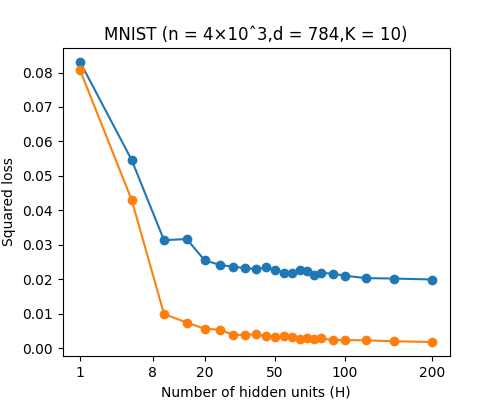
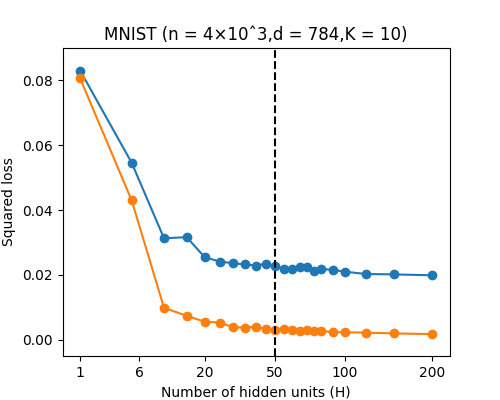
Experiments for label noise 0% and 20% at 1000 epochs

diff --git a/cifar_dd_exp.py b/cifar_dd_exp.py
@@ -2,31 +2,26 @@ import torchvision.datasets as datasets
 import torch
 import torch.nn as nn
 import torchvision.transforms as transforms
-import matplotlib.pyplot as plt
-import os
 import numpy as np
+import os
 
-#------------------------------------------------------------------------------------------
+from torch.utils.data import DataLoader
+from prefetch_generator import BackgroundGenerator
+
+# ------------------------------------------------------------------------------------------
 
 
 # Training Settings
-weight_reuse = False
-lr_decay = False
-#hidden_units = [1, 50, 100]
+lr_decay = True
 CNN_widths = [1, 4, 8, 12, 16, 20, 24, 28, 32, 36, 40, 44, 48, 52, 56, 60, 64]
 classes = ('plane', 'car', 'bird', 'cat', 'deer', 'dog', 'frog', 'horse', 'ship', 'truck')
 n_epochs = 1000
-momentum = 0.95
 learning_rate = 0.01
-lr_decay_rate = 0.9
-sample_size = 4000
+label_noise_ratio = 0.2
 
-if weight_reuse:
-    directory = "assets/cifar/weight-reuse-case/epoch=%d" % n_epochs
-else:
-    directory = "assets/cifar/standard-case/epoch=%d" % n_epochs
+directory = "assets/cifar-10/standard-case/epoch=%d-noise=%d" % (n_epochs, label_noise_ratio)
 
-output_file = os.path.join(directory, "epoch=%d.txt" % n_epochs)
+output_file = os.path.join(directory, "epoch=%d.txt-noise=%d" % (n_epochs, label_noise_ratio))
 checkpoint_path = os.path.join(directory, "ckpt")
 
 if not os.path.isdir(directory):
@@ -35,36 +30,44 @@ if not os.path.isdir(checkpoint_path):
     os.mkdir(checkpoint_path)
 
 
-#------------------------------------------------------------------------------------------
+# ------------------------------------------------------------------------------------------
 
-
-from torch.utils.data import DataLoader
-from prefetch_generator import BackgroundGenerator
 
 class DataLoaderX(DataLoader):
     def __iter__(self):
         return BackgroundGenerator(super().__iter__())
 
+
 # Return the trainloader and testloader of MINST
 def get_train_and_test_dataloader():
     transform = transforms.Compose(
         [transforms.ToTensor(),
-         transforms.Normalize((0.5, 0.5, 0.5), (0.5, 0.5, 0.5))])
+         transforms.Normalize((0.5, 0.5, 0.5), (0.5, 0.5, 0.5))]
+    )
 
     trainset = datasets.CIFAR10(root='./data', train=True, download=False, transform=transform)
 
-    trainloader = DataLoaderX(trainset, batch_size=64, shuffle=True, num_workers=8, pin_memory=False)
+    if label_noise_ratio > 0:
+        label_noise_transform = transforms.Lambda(lambda y: torch.tensor(np.random.randint(0, 10)))
+        num_samples = len(trainset)
+        num_noisy_samples = int(label_noise_ratio * num_samples)
+
+        noisy_indices = np.random.choice(num_samples, num_noisy_samples, replace=False)
+        for idx in noisy_indices:
+            trainset.targets[idx] = label_noise_transform(trainset.targets[idx])
+
+    trainloader = DataLoaderX(trainset, batch_size=64, shuffle=True, num_workers=0, pin_memory=False)
 
     testset = datasets.CIFAR10(root='./data', train=False, download=False, transform=transform)
 
-    testloader = DataLoaderX(testset, batch_size=64, shuffle=False, num_workers=8, pin_memory=False)
+    testloader = DataLoaderX(testset, batch_size=64, shuffle=False, num_workers=0, pin_memory=False)
 
     print('Load CIFAR-10 dataset success;')
 
     return trainloader, testloader
 
 
-#------------------------------------------------------------------------------------------\
+# ------------------------------------------------------------------------------------------\
 
 
 class FiveLayerCNN(nn.Module):
@@ -101,23 +104,65 @@ class FiveLayerCNN(nn.Module):
         x = self.fc(x)
         return x
 
-def get_model(hidden_unit):
-    model = FiveLayerCNN(hidden_unit)
-    model = model.to(device)
 
-    print("Model with %d hidden neurons successfully generated;" % hidden_unit)
-
-    return model
+# ------------------------------------------------------------------------------------------
 
 
-#------------------------------------------------------------------------------------------
+def train_and_evaluate_model(trainloader, testloader, model, optimizer, criterion):
+    total_train_step = 0
 
+    for i in range(n_epochs):
+        model.train()
+        cumulative_loss, correct, total = 0.0, 0, 0
 
-def train_and_evaluate_model(trainloader, testloader, model, optimizer, criterion, CNN_width):
+        for data in trainloader:
+            imgs, targets = data
+            imgs = imgs.to(device)
+            targets = targets.to(device)
+
+            outputs = model(imgs)
+            loss = criterion(outputs, targets)
+            optimizer.zero_grad()
+            loss.backward()
+            optimizer.step()
+
+            cumulative_loss += loss.item()
+            _, predicted = outputs.max(1)
+            total += targets.size(0)
+            correct += predicted.eq(targets.argmax(1)).sum().item()
+
+            total_train_step = total_train_step + 1
+            if total_train_step > 0 and total_train_step % 512 == 0:
+                optimizer.param_groups[0]['lr'] = optimizer.param_groups[0]['lr'] / \
+                                                  pow(1 + total_train_step // 512, 0.5)
+                print("Learning Rate Decay: %.f", optimizer.param_groups[0]['lr'])
+
+        print("Epoch : %d ; Train Loss : %f ; Train Acc : %.3f" % (i, train_loss, train_acc))
+
+    model.eval()
+    cumulative_loss, correct, total = 0.0, 0, 0
+
+    with torch.no_grad():
+        for data in testloader:
+            imgs, targets = data
+            imgs = imgs.to(device)
+            targets = targets.to(device)
+
+            outputs = model(imgs)
+            loss = criterion(outputs, targets)
+
+            cumulative_loss += loss.item()
+            _, predicted = outputs.max(1)
+            total += targets.size(0)
+            correct += predicted.eq(targets.argmax(1)).sum().item()
+
+    test_loss = cumulative_loss / len(testloader)
+    test_acc = correct / total
+
     return train_loss, train_acc, test_loss, test_acc
 
 
-#------------------------------------------------------------------------------------------
+# ------------------------------------------------------------------------------------------
 
 
 if __name__ == '__main__':
@@ -134,17 +179,21 @@ if __name__ == '__main__':
     # Main Training Unit
     for CNN_width in CNN_widths:
         # Generate the model with specific number of hidden_unit
-        model = get_model(CNN_width)
+        model = FiveLayerCNN(CNN_width)
+        model = model.to(device)
+        print("Model with %d hidden neurons successfully generated;" % CNN_width)
+
         parameters = sum(p.numel() for p in model.parameters())
         print('Number of parameters: %d' % sum(p.numel() for p in model.parameters()))
 
         # Set the optimizer and criterion
-        optimizer = torch.optim.SGD(model.parameters(), momentum=momentum, lr=learning_rate)
+        optimizer = torch.optim.SGD(model.parameters(), momentum=0, lr=learning_rate)
         criterion = torch.nn.CrossEntropyLoss()
+        criterion = criterion.to(device)
 
         # Train and evalute the model
-        train_loss, train_acc, test_loss, test_acc = train_and_evaluate_model(trainloader, testloader, \
-                                    model, optimizer, criterion, CNN_width)
+        train_loss, train_acc, test_loss, test_acc = train_and_evaluate_model(trainloader, testloader,
+                                                                              model, optimizer, criterion)
 
         # Print training and evaluation outcome
         print("\nCNN_width : %d ; Parameters : %d ; Train Loss : %f ; Train Acc : %.3f ; Test Loss : %f ; "

diff --git a/mnist_dd_exp.py b/mnist_dd_exp.py
@@ -11,19 +11,19 @@ import numpy as np
 
 # Training Settings
 weight_reuse = False
-lr_decay = False
-hidden_units = [20, 1, 5, 10, 15, 25, 30, 35, 40, 45, 50, 55, 60, 65, 70, 75, 80, 90, 100, 120, 150, 200]
+lr_decay = True
+hidden_units = [1, 5, 10, 15, 20, 25, 30, 35, 40, 45, 50, 55, 60, 65, 70, 75, 80, 90, 100, 120, 150, 200]
 n_epochs = 1000
 momentum = 0.95
 learning_rate = 0.01
 lr_decay_rate = 0.9
 sample_size = 4000
-label_noise_ratio = 0.2
+label_noise_ratio = 0.0
 
 if weight_reuse:
     directory = "assets/mnist/weight-reuse-case/epoch=%d" % n_epochs
 else:
-    directory = "assets/mnist/standard-case/epoch=%d-noise" % n_epochs
+    directory = "assets/mnist/standard-case/epoch=%d-noise-0-lr-decay" % n_epochs
 
 output_file = os.path.join(directory, "epoch=%d.txt" % n_epochs)
 checkpoint_path = os.path.join(directory, "ckpt")
@@ -68,6 +68,7 @@ def get_train_and_test_dataloader():
     trainset = torch.utils.data.Subset(trainset, indices=np.arange(sample_size))
     trainloader = DataLoaderX(trainset, batch_size=64, shuffle=True, num_workers=0, pin_memory=False)
 
+    '''
     for images, targets in trainloader:
         for i in range(18):
             plt.subplot(3, 6, i + 1)
@@ -77,6 +78,7 @@ def get_train_and_test_dataloader():
         print(targets[6:12])
         print(targets[12:18])
         break
+    '''
 
     testset = datasets.MNIST(root='./data', train=False, download=True, transform=transform_test)
 
@@ -97,7 +99,7 @@ class simple_FC(nn.Module):
             nn.Linear(784, n_hidden),
             nn.ReLU()
         )
-        self.dropout = nn.Dropout(0.6)
+        #self.dropout = nn.Dropout(0.6)
         self.classifier = nn.Linear(n_hidden, 10)
 
     def forward(self, x):
@@ -156,9 +158,8 @@ def train(trainloader, model, optimizer, criterion):
         loss = criterion(outputs, labels)
         loss.backward()
         optimizer.step()
-        # Calculate the Testing Loss
+
         cumulative_loss += loss.item()
-        # Calculate the Training Accuracy
         _, predicted = outputs.max(1)
         total += labels.size(0)
         correct += predicted.eq(labels.argmax(1)).sum().item()
@@ -182,9 +183,8 @@ def test(testloader, model):
             labels = labels.to(device)
             outputs = model(inputs)
             loss = criterion(outputs, labels)
-            # Calculate the Testing Loss
+
             cumulative_loss += loss.item()
-            # Calculate the Testing Accuracy
             _, predicted = outputs.max(1)
             total += labels.size(0)
             correct += predicted.eq(labels.argmax(1)).sum().item()
@@ -200,16 +200,14 @@ def train_and_evaluate_model(trainloader, testloader, model, optimizer, criterio
     train_loss, train_acc, epoch = 0.0, 0.0, 0
 
     # Stops the training within the pre-set epoch size or when the model fits the training set (99%)
-    while epoch < n_epochs:
+    for epoch in range(n_epochs):
         # Perform weight decay before the interpolation threshold
         # LR decay by lr_decay_rate percent after every `500` epochs
-        if lr_decay and epoch > 1 and epoch % 250 == 1:
+        if lr_decay and epoch > 1 and epoch % 200 == 1:
             optimizer.param_groups[0]['lr'] = optimizer.param_groups[0]['lr'] * lr_decay_rate
 
         # Train the model
         model, train_loss, train_acc = train(trainloader, model, optimizer, criterion)
-
-        epoch += 1
 
         # Print the status of current training and testing outcome
         print("Epoch : %d ; Train Loss : %f ; Train Acc : %.3f" % (epoch, train_loss, train_acc))
@@ -248,7 +246,9 @@ if __name__ == '__main__':
 
         # Set the optimizer and criterion 
         optimizer = torch.optim.SGD(model.parameters(), momentum=momentum, lr=learning_rate)
+        #optimizer = optimizer.to(device)
         criterion = torch.nn.MSELoss()
+        #criterion = criterion.to(device)
 
         # Train and evalute the model
         train_loss, train_acc, test_loss, test_acc = train_and_evaluate_model(trainloader, testloader, \

diff --git a/mnist_dd_plot.py b/mnist_dd_plot.py
@@ -3,18 +3,14 @@ import os
 import re
 import math
 
-epochs = 1000
-weight_reuse = False
+epochs = 4000
 
-if weight_reuse:
-    directory = 'assets/mnist/weight-reuse-case/epoch=%d-3/plots' % epochs
-    input_file = 'assets/mnist/weight-reuse-case/epoch=%d-3/epoch=%d.txt' % (epochs, epochs)
-else:
-    directory = 'assets/mnist/standard-case/epoch=%d-dropout/plots' % epochs
-    input_file = 'assets/mnist/standard-case/epoch=%d-dropout/epoch=%d.txt' % (epochs, epochs)
+directory = 'assets/mnist/standard-case/epoch=%d' % epochs
+plots_directory = os.path.join(directory, 'plots')
+input_file = os.path.join(directory, 'epoch=%d.txt' % epochs)
 
-if not os.path.isdir(directory):
-    os.mkdir(directory)
+if not os.path.isdir(plots_directory):
+    os.mkdir(plots_directory)
 
 if __name__ == '__main__':
     array = []
@@ -39,7 +35,6 @@ if __name__ == '__main__':
     #    parameters.append(int( (785 * n + (n + 1) * 10) / 1000) )
 
 
-
     scale_function = (lambda x: x**(1/3), lambda x: x**3)
 
     plt.figure(figsize=(5, 4))
@@ -47,26 +42,28 @@ if __name__ == '__main__':
     ax.set_xscale('function', functions=scale_function)
     plt.plot(hidden_units, test_losses, marker='o', label='test')
     plt.plot(hidden_units, train_losses, marker='o', label='train')
-    plt.xticks([1, 8, 20, 50, 100, 200])
+    plt.xticks([1, 6, 20, 50, 100, 200])
+    ax.vlines([50], -0.005, 0.9, linestyles='dashed', color='black')
+    plt.ylim((-0.005, 0.09))
     plt.xlabel('Number of hidden units (H)')
     plt.ylabel('Squared loss')
     plt.title('MNIST (n = 4×10ˆ3,d = 784,K = 10)')
-    plt.savefig(os.path.join(directory, 'MSE-Neurons.png'))
+    plt.savefig(os.path.join(plots_directory, 'MSE-Neurons.png'))
 
     plt.figure(figsize=(6, 4.5))
     ax = plt.axes()
     #ax.set_xscale('function', functions=scale_function)
-    ax.vlines([40], -0.003, 0.155, linestyles='dashed', color='black')
     plt.plot(parameters, test_losses, marker='o', label='test')
     plt.plot(parameters, train_losses, marker='o', label='train')
     #plt.xticks([5, 10, 40, 100])
     plt.yticks([0.00, 0.02, 0.04, 0.06, 0.08, 0.10, 0.12, 0.14])
     #plt.xlim((10, 300))
-    plt.ylim((-0.003, 0.155))
+    ax.vlines([40], -0.003, 0.09, linestyles='dashed', color='black')
+    plt.ylim((-0.003, 0.09))
     plt.xlabel('Number of parameters/weights (×10ˆ3)')
     plt.ylabel('Squared loss')
     plt.title('MNIST (n = 4×10ˆ3,d = 784,K = 10)')
-    plt.savefig(os.path.join(directory, 'MSE-Parameters.png'))
+    plt.savefig(os.path.join(plots_directory, 'MSE-Parameters.png'))
 
     plt.figure(figsize=(5, 4))
     ax = plt.axes()
@@ -77,7 +74,7 @@ if __name__ == '__main__':
     plt.xlabel('Number of hidden units (H)')
     plt.ylabel('Accuracy')
     plt.title('MNIST (n = 4×10ˆ3,d = 784,K = 10)')
-    plt.savefig(os.path.join(directory, 'Accuracy-Neurons.png'))
+    plt.savefig(os.path.join(plots_directory, 'Accuracy-Neurons.png'))
 
     plt.figure(figsize=(5, 4))
     ax = plt.axes()
@@ -88,4 +85,4 @@ if __name__ == '__main__':
     plt.xlabel('Number of parameters/weights (×10ˆ3)')
     plt.ylabel('Accuracy')
     plt.title('MNIST (n = 4×10ˆ3,d = 784,K = 10)')
-    plt.savefig(os.path.join(directory, 'Accuracy-Parameters.png'))
+    plt.savefig(os.path.join(plots_directory, 'Accuracy-Parameters.png'))
